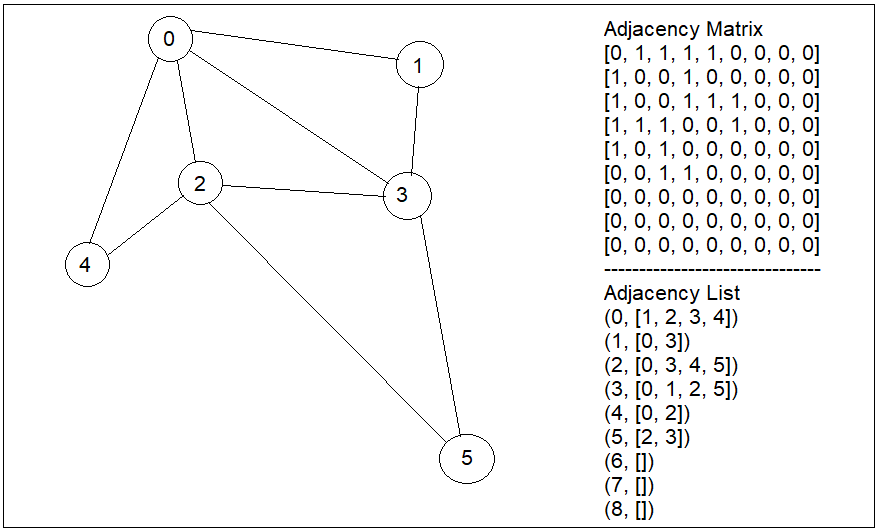
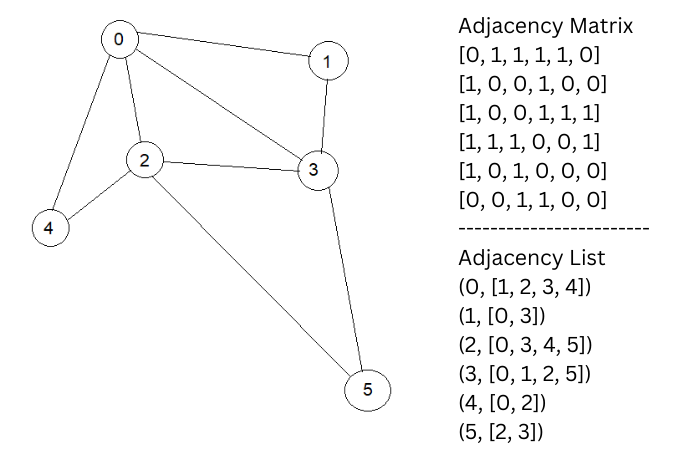
Basics of Graph

diff --git a/Step-Up/Graph/0) Adjacency Matrix and List.py b/Step-Up/Graph/0) Adjacency Matrix and List.py
@@ -1,32 +1,33 @@
-def adjacencyMatrix(ipt,mg):
-    for i in range(len(ipt)):
+def adjacencyMatrix(ipt, n, mg):
+    for i in range(n):
         temp = []
-        for j in range(len(ipt)):
+        for j in range(n):
             temp.append(0)
         mg.append(temp)
 
-    for (u,v) in ipt:
+    for (u, v) in ipt:
         mg[u][v] = 1
         mg[v][u] = 1
 
     return mg
 
-def adjacencyList(ipt, graph):
-    for i in range(len(ipt)):
+
+def adjacencyList(ipt, n, graph):
+    for i in range(n):
         graph[i] = []
 
-    for (u,v) in ipt:
+    for (u, v) in ipt:
         graph[u].append(v)
         graph[v].append(u)
 
 
-ipt = [[0,1], [0,2], [0,3], [0,4], [1,3], [2,3], [2,4], [2,5], [3,5]]
+ipt = [[0, 1], [0, 2], [0, 3], [0, 4], [1, 3], [2, 3], [2, 4], [2, 5], [3, 5]]
 
 print("Adjacency Matrix")
 # Adjacency Matrix
 mg = []
-
-adjacencyMatrix(ipt,mg)
+n = 6
+adjacencyMatrix(ipt, n, mg)
 
 for row in mg:
     print(row)
@@ -35,8 +36,8 @@ print("--------------------------------------")
 print("Adjacency List")
 # Adjacency List
 graph = {}
-
-adjacencyList(ipt, graph)
+n = 6
+adjacencyList(ipt, n, graph)
 
 for row in graph.items():
     print(row)
